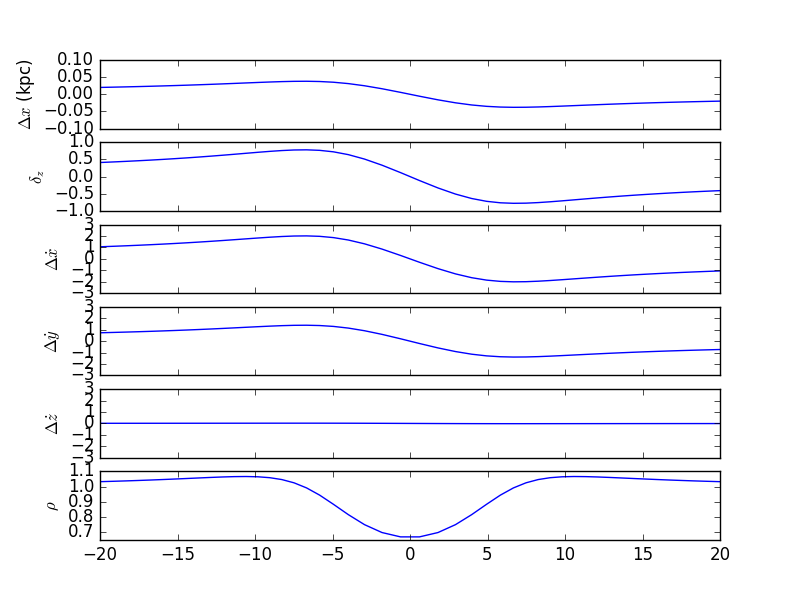
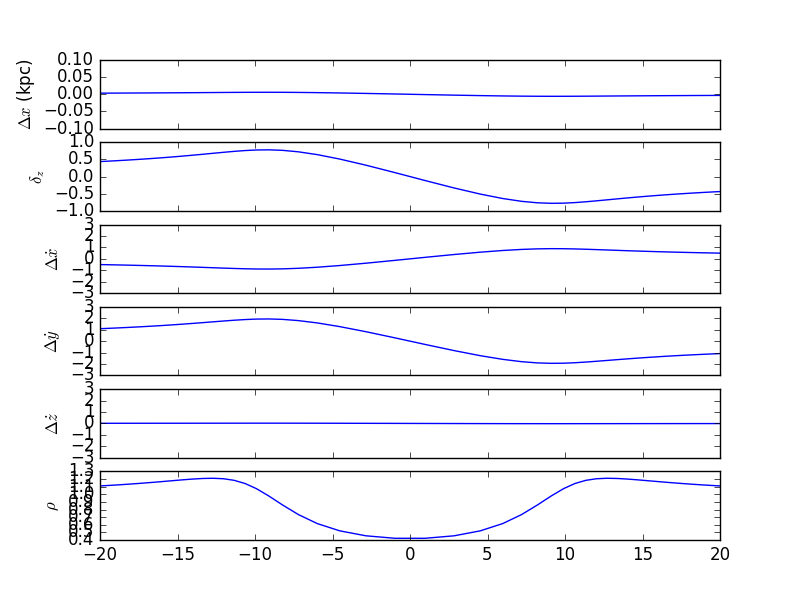
Add simulated data

diff --git a/StreamModel.py b/StreamModel.py
@@ -1,30 +1,63 @@
 import numpy as np
 import matplotlib.pyplot as plt
 from galpy.potential import NFWPotential
-
+from scipy.interpolate import interp1d
+from scipy.integrate import simps
 
 class Stream:
+
+    '''
+    These are the variables common to all streams.
+
+    G - The gravitational constant
+    nfwp - NFW potential for the host galaxy of the streams and subhalos
+    nump - number of psi0 data points at which to calculate the different variables
+    psi0 - the range of initial angles to the different points along the stream.
+           psi0 = 0 occurs at the point of closest approach of the subhalo along the stream.
+    '''
 
     nfwp= NFWPotential(normalize=1.,a=14./10.)
     G = 4.302e-3 #pc*M_sun^-1*(km/s)^2
     nump = 50
     psi0 = np.linspace(-20,20,nump)*np.pi/180.
+
+    '''
+    There are several functions which can be called on the stream.
+
+    __init__ - initializes a stream with the parameters passe to it and calculates several important parameters
+
+        Input parameters:
+            mass (Solar masses) - mass of the subhalo
+            rstream (pc) - radius of the circular orbit of the stream around the galaxy centre
+            rsub (pc) - Radius of the subhalo
+            impact - impact parameter of the subhalo
+            subvel (km/s) - Velocity of the subhalo in coordinates specified by the stream 
+            t (Myr) - Time elapsed since time of closest approach of the subhalo
+
+        Calculated parameters:
+            wperp (km/s) - Perpendicular component of the relative velocity to points in the stream
+            wpar (km/s) - Parallel component of relative velocity 
+            w - Total magnitude of relative velocity between the subhalo and points in the stream
+
+            gamma - 
+            
+    gT - calculates a very commonly used angle
+    calc_dv - 
     
+    '''
     def __init__(self,mass,rstream,rsub,impact,subvel,t):
-        self.m = mass   # Mass of the subhalo
-        self.r0 = rstream   # Radius of the circular orbit of the stream
-        self.rs = rsub   # Radius of the subhalo
-        self.b = impact   # Impact parameter for the subhalo and stream
-        self.wvec = subvel    # Relative velocity of the halo
-        self.t = t    # Time elapsed after the halo impacted the stream
-        self.vy = self.nfwp.vcirc(self.r0/10000.)*168.2 # in km/s
+        self.m = mass   
+        self.r0 = rstream   
+        self.rs = rsub  
+        self.b = impact   
+        self.wvec = subvel   
+        self.t = t*1.02 # Myr*1.02(pc/(km/s)/Myr) - converts to time in units pc/(km/s)
+        self.vy = self.nfwp.vcirc(self.r0/10000.)*168.2 
 
         # Calculate the different components of the subhalo relative velocity
         self.wperp = np.sqrt(subvel[0]**2 + subvel[2]**2)
         self.wpar = self.vy - wvec[1]
         self.w = np.sqrt(subvel[0]**2 + subvel[2]**2 + (self.vy - wvec[1])**2)
-
-        print self.w
 
         self.calc_gamma()
         self.calc_dv()      # Calculates the change in initial velocity as a function of angle       
@@ -32,24 +65,14 @@ class Stream:
         self.calc_dx()      # Calculates the perturbations in the x and z direction of the stream
         self.calc_dxdot()   # Calculates the change in the stream velocity as a function of time and angle
 
-
-    '''
-    These are the functions which calculate variables that will be used in the other
-    functions, but which do not calculate attributes of the object
-    '''
         
     def gT(self):
         angle = self.gamma*self.vy*self.t/self.r0
         return angle
 
-    '''
-    These are the functions which set attributes of the object
-    '''
 
     def calc_gamma(self):
-        g = 3. + (self.r0)**2*self.nfwp.R2deriv(self.r0,0.)/self.vy**2.
-        print 'potential: ',self.nfwp.R2deriv(0.98,0.)
-        print 'r02*pot: ', (self.r0)**2*self.nfwp.R2deriv(self.r0/10000.,0.)
+        g = 3. + (self.r0/10000.)**2*168.2**2*self.nfwp.R2deriv(self.r0/10000.,0.)/self.vy**2.
         self.gamma = np.sqrt(g)
 
 
@@ -121,14 +144,131 @@ class Stream:
         deltaxdot[1] = -dv[1]*(2.-gamma**2)/gamma**2+2.*dv[1]*np.cos(gT)/gamma**2-dv[0]*np.sin(gT)/gamma
         deltaxdot[2] = dv[2]*np.cos(vy*self.t/self.r0)
 
-        print 'First: ', 2.*dv[1]/gamma*np.sin(gT)
-
         self.dxdot = deltaxdot
 
-#def GenData(x,y,dy)
-#    data = [(numpy.random.normal(y[i],dy[i]) for i in range(len(y))]
 
+def GenData(stream,nstars):
 
+    #Method 1 to calculate CDF
+    cdf = [simps(stream.rho[:i],stream.psi[:i]) for i in range(1,len(stream.psi))]
+    #Method 2 to calculate CDF
+    rhopdf = stream.rho/sum(stream.rho)
+    rhocdf = np.cumsum(rhopdf) - np.min(np.cumsum(rhopdf))
+
+    '''
+    #Plot the two CDF's which are NOT the same
+    plt.figure()
+    plt.plot(stream.psi[:49]*180./np.pi,cdf/np.max(cdf))
+    plt.plot(stream.psi*180./np.pi,rhocdf)
+    plt.show()
+    '''
+    
+    #generate random number between (0,1] with uniform distribution
+    rand = np.random.uniform(0.,np.max(rhocdf),size=nstars)
+
+    #map to psi
+    f = interp1d(rhocdf,stream1.psi)
+    psi = f(rand)
+    
+    #map to psi0
+    g = interp1d(stream1.psi,stream1.psi0)
+    psi0 = g(psi)
+
+    #Save the model values
+    mnump = stream.nump
+    mpsi = stream.psi
+    mpsi0 = stream.psi0
+    mdx = stream.dx
+    mdxdot = stream.dxdot
+
+    #map to the different variables
+    stream.nump = nstars
+    stream.psi0 = psi0
+
+    stream.calc_dv()             
+    stream.calc_psi_rho()     
+    stream.calc_dx()      
+    stream.calc_dxdot() 
+    
+    #add noise to the variables
+    dxstd = [10.,0.,0.02*np.pi/180.]
+    dxdotstd = [0.3,0.15,0.1]
+    noisedx = np.zeros([3,nstars])
+    noisedxdot = np.zeros([3,nstars])
+
+    for i in range(3):
+        noisedxdot[i] = np.random.normal(scale=dxdotstd[i],size=nstars)
+        if i != 1:
+            noisedx[i] = np.random.normal(scale=dxstd[i],size=nstars)
+            
+    dxdata = stream.dx + noisedx
+    dxdotdata = stream.dxdot + noisedxdot
+
+    nbins = 50
+    rho,edges = np.histogram(psi*180./np.pi,nbins,density=True)
+    middle = np.zeros(nbins)
+    for i in range(nbins):
+        middle[i] = (edges[i]+edges[i+1])/2.
+
+    #Return variables to original format
+    stream.nump = mnump
+    stream.psi0 = mpsi0
+
+    stream.calc_dv()             
+    stream.calc_psi_rho()     
+    stream.calc_dx()      
+    stream.calc_dxdot() 
+    
+    return psi,dxdata,dxdotdata,[rho,middle]
+
+def Erkalplot(stream):
+
+    dx = stream.dx
+    dxdot = stream.dxdot
+    psi = stream.psi*180./np.pi
+    psi0 = stream.psi0*180./np.pi
+    dv = stream.dv
+    rho = stream.rho/simps(stream.rho,psi)
+    
+    psidata,dxdata,dxdotdata,rhodata = GenData(stream,1000)
+    psidata = psidata*180./np.pi
+
+    f, (ax1, ax2, ax3, ax4, ax5, ax6) = plt.subplots(6, 1, sharex='col', sharey='row')
+    ax1.plot(psidata,dxdata[0]/1000.,'.',c='grey')
+    ax1.plot(psi,dx[0]/1000.,'k-')
+    ax1.set_xlim([-25,25])
+    ax1.set_ylim([-0.1,0.1])
+    ax1.set_yticks([-0.1,0.,0.1])
+    ax1.set_ylabel(r'$\Delta x\,\,(kpc)$')
+    ax2.plot(psidata,dxdata[2]*180./np.pi,'.',c='grey')
+    ax2.plot(psi,dx[2]*180./np.pi,'k-')
+    ax2.set_ylim([-1.2,1.2])
+    ax2.set_ylabel(r'$\delta_z\,\,(^\circ)$')
+    ax2.set_yticks([-1,0.,1])
+    ax3.plot(psidata,dxdotdata[0],'.',c='grey')
+    ax3.plot(psi,dxdot[0],'k-')
+    ax3.set_ylim([-3.2,3.2])
+    ax3.set_ylabel(r'$\Delta v_x$')
+    ax3.set_yticks([-3,0.,3])
+    ax4.plot(psidata,dxdotdata[1],'.',c='grey')
+    ax4.plot(psi,dxdot[1],'k-')
+    ax4.set_ylim([-3.2,3.2])
+    ax4.set_ylabel(r'$\Delta v_y$')
+    ax4.set_yticks([-3,0.,3])
+    ax5.plot(psidata,dxdotdata[2],'.',c='grey')
+    ax5.plot(psi,dxdot[2],'k-')
+    ax5.set_ylim([-3.2,3.2])
+    ax5.set_ylabel(r'$\Delta v_z$')
+    ax5.set_yticks([-3,0.,3])
+    ax6.plot(rhodata[1],rhodata[0],'.',c='grey')
+    ax6.plot(psi,rho,'k-')
+    ax6.set_ylabel(r'$\rho$')
+    ax6.set_xlabel(r'$\Psi (^\circ)$')
+ #   ax6.set_yticks([0.4,0.8,1.2])
+
+ #   f.savefig('M1e8.png')
+
+    
 if __name__ == "__main__":
 
 
@@ -136,67 +276,14 @@ if __name__ == "__main__":
     r0 = 9800.
     b = 0.
     wvec = [0.,0.,150.]
-    rs = 625.
-    time = 450.*1.02 # Myr*1.02(pc/(km/s)/Myr)
+    rs = 625. #pc
+    time = 450. #Myr
 
     stream1 = Stream(m,r0,rs,b,wvec,time)
     stream2 = Stream(1.e7,r0,250.,b,wvec,time)
 
-    dx = stream1.dx
-    psi = stream1.psi*180./np.pi
-    dv = stream1.dv
+    Erkalplot(stream1)
+    Erkalplot(stream2)
 
-    f, (ax1, ax2, ax3, ax4, ax5, ax6) = plt.subplots(6, 1, sharex='col', sharey='row')
-    ax1.plot(psi,dx[0]/1000.)
-    ax1.set_xlim([-20,20])
-    ax1.set_ylim([-0.1,0.1])
-    ax1.set_ylabel(r'$\Delta x$ (kpc)')
-    ax2.plot(psi,stream1.dx[2]*180./np.pi)
-    ax2.set_ylim([-1,1])
-    ax2.set_ylabel(r'$\delta_z$')
-    ax3.plot(psi,stream1.dxdot[0])
-    ax3.set_ylim([-3,3])
-    ax3.set_ylabel(r'$\Delta \dot x$')
-    ax4.plot(psi,stream1.dxdot[1])
-    ax4.set_ylim([-3,3])
-    ax4.set_ylabel(r'$\Delta \dot y$')
-    ax5.plot(psi,stream1.dxdot[2])
-    ax5.set_ylim([-3,3])
-    ax5.set_ylabel(r'$\Delta \dot z$')
-    ax6.plot(psi,stream1.rho)
-    ax6.set_ylabel(r'$\rho$')
-
-    plt.figure()
-    plt.plot(stream1.psi0*stream1.r0,stream1.dv[0],label='x')
-    plt.plot(stream1.psi0*stream1.r0,stream1.dv[1],label='y')
-    plt.plot(stream1.psi0*stream1.r0,stream1.dv[2],label='z')
-    plt.ylabel(r'$\Delta v$')
-    plt.xlabel(r'$\psi (^\circ)$')
-    plt.legend()
-
-    f, (ax1, ax2, ax3, ax4, ax5, ax6) = plt.subplots(6, 1, sharex='col', sharey='row')
-    ax1.plot(psi,dx[0]/1000.)
-    ax1.set_xlim([-20,20])
-    ax1.set_ylim([-0.05,0.05])
-    ax1.set_ylabel(r'$\Delta x$ (kpc)')
-    ax2.plot(psi,stream2.dx[2]*180./np.pi)
-    ax2.set_ylim([-0.5,0.5])
-    ax2.set_ylabel(r'$\delta_z$')
-    ax3.plot(psi,stream2.dxdot[0])
-    ax3.set_ylim([-1,1])
-    ax3.set_ylabel(r'$\Delta \dot x$')
-    ax4.plot(psi,stream2.dxdot[1])
-    ax4.set_ylim([-1,1])
-    ax4.set_ylabel(r'$\Delta \dot y$')
-    ax5.plot(psi,stream2.dxdot[2])
-    ax5.set_ylim([-1,1])
-    ax5.set_ylabel(r'$\Delta \dot z$')
-    ax6.plot(psi,stream2.rho)
-#    ax6.set_ylim([0.,0.05])
-    ax6.set_ylabel(r'$\rho$')
-
-    plt.figure()
-    plt.plot(stream1.psi0*180./np.pi,dx[0]/1000.)
-    plt.plot(stream1.psi*180./np.pi,dx[0]/1000.)
-    
     plt.show()
+
